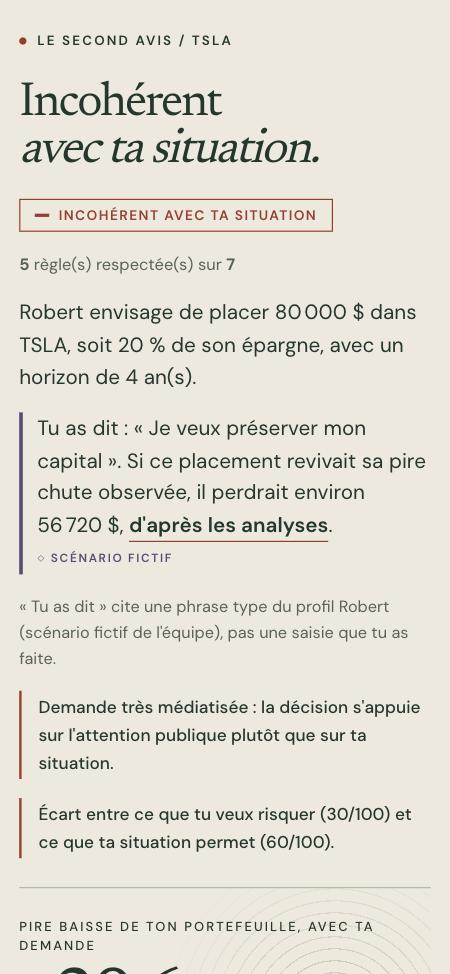
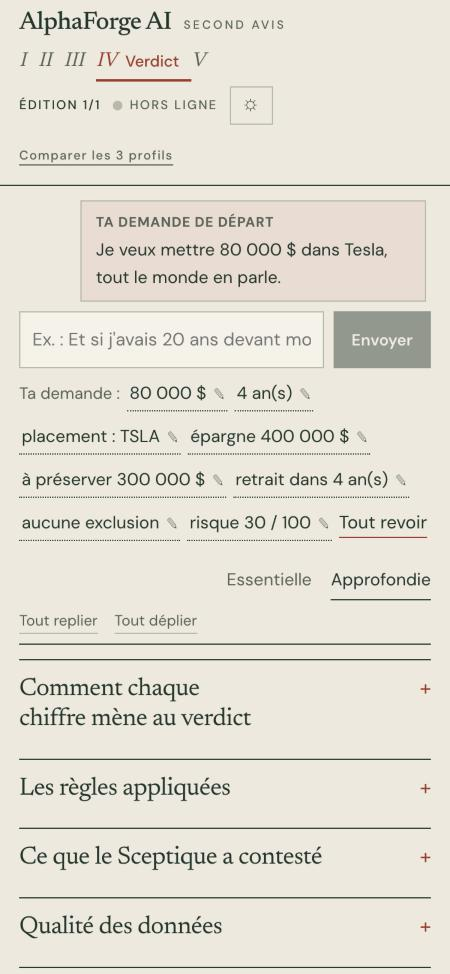
feat(ui-folio): en-tête sobre au nom de l'énoncé, espace resserré et sections repliables
- « AlphaForge AI · Second avis » remplace le mot-symbole ; en-tête sur une ligne
- marges et corps réduits : le verdict et son chiffre tiennent dans le premier écran
- repliable.js : chaque section se réduit à son titre (clic, Entrée, Espace) ; tout replier / tout déplier
- petits écrans : commandes de lecture et champ de message sans débordement

diff --git a/frontend/src/folio.css b/frontend/src/folio.css
@@ -34,48 +34,46 @@
   color-scheme: dark;
 }
 :root { --survol: #3d5445; --cercles: #b3b08f; }
-.choix-theme { background: none; border: 1px solid var(--line); color: var(--ink); padding: 6px 12px; min-height: 36px; cursor: pointer; font: 500 0.72rem/1 var(--sans); letter-spacing: 0.1em; text-transform: uppercase; }
+.choix-theme { background: none; border: 1px solid var(--line); color: var(--ink); padding: 4px 10px; min-height: 32px; min-width: 36px; cursor: pointer; font: 500 0.72rem/1 var(--sans); letter-spacing: 0.1em; text-transform: uppercase; }
 .choix-theme:hover { border-color: var(--ink); }
 body { transition: background-color .2s, color .2s; }
 
 body { background: var(--paper); color: var(--ink); font: 15px/1.6 var(--sans); -webkit-font-smoothing: antialiased; }
 h1, h2, h3 { font-family: var(--serif); font-weight: 400; letter-spacing: -0.02em; }
-h1 { font-size: clamp(2.2rem, 5.2vw, 4.2rem); line-height: 1.02; letter-spacing: -0.04em; }
-h2 { font-size: 1.45rem; margin-bottom: 12px; }
+h1 { font-size: clamp(1.8rem, 3.8vw, 3rem); line-height: 1.05; letter-spacing: -0.035em; }
+h2 { font-size: 1.3rem; margin-bottom: 8px; }
 h3 { font-size: 1.1rem; }
 :focus-visible { outline: 2px solid var(--red); outline-offset: 3px; }
 .surtitre { font: 600 0.7rem/1.4 var(--sans); letter-spacing: 0.16em; color: var(--ink); }
 .surtitre::before { content: ""; display: inline-block; width: 6px; height: 6px; border-radius: 50%; background: var(--red); margin-right: 9px; vertical-align: middle; }
 .lede { font-size: 1.1rem; color: var(--ink); max-width: 56ch; }
 
-/* Manchette */
-.entete { background: var(--paper); border-bottom: 0; position: static; }
-.entete-int { max-width: 1180px; padding: 22px 28px 0; display: grid; grid-template-columns: 1fr auto 1fr; align-items: center; gap: 12px 20px; }
-.manchette-gauche { justify-self: start; display: flex; align-items: center; gap: 14px; flex-wrap: wrap; }
-.manchette-droite { justify-self: end; text-align: right; font: 500 0.7rem/1.9 var(--sans); letter-spacing: 0.16em; text-transform: uppercase; }
-.marque { flex-direction: column; gap: 4px; justify-self: center; font: 500 3.3rem/0.9 var(--serif); letter-spacing: -0.06em; color: var(--ink); }
+/* En-tête sobre : une seule ligne, le nom de l'énoncé, les étapes, les réglages */
+.entete { background: var(--paper); border-bottom: 1px solid var(--ink); position: sticky; top: 0; z-index: 5; }
+.entete-int { max-width: 1180px; padding: 8px 28px; display: flex; align-items: center; gap: 6px 22px; flex-wrap: wrap; }
+.marque { flex-direction: row; align-items: baseline; gap: 10px; font: 500 1.3rem/1.1 var(--serif); letter-spacing: -0.02em; color: var(--ink); }
 .marque-signe { display: none; }
-.marque-sous { border: 0; padding: 0; font: 500 0.66rem/1 var(--sans); letter-spacing: 0.34em; text-transform: uppercase; color: var(--ink); }
-.lien-retour { background: none; border: 0; padding: 6px 0; cursor: pointer; font-size: 0.82rem; color: var(--ink); }
-.lien-retour:hover { color: var(--red); }
-.etat-agents { border: 0; background: none; padding: 0; font: 500 0.7rem/1.9 var(--sans); letter-spacing: 0.12em; text-transform: uppercase; color: var(--muted-f); }
+.marque-sous { border: 0; padding: 0; font: 500 0.62rem/1 var(--sans); letter-spacing: 0.2em; text-transform: uppercase; color: var(--muted-f); }
+.manchette-droite { margin-left: auto; display: flex; align-items: center; gap: 14px; flex-wrap: wrap; font: 500 0.66rem/1.4 var(--sans); letter-spacing: 0.12em; text-transform: uppercase; }
+.etat-dossier { color: var(--ink); }
+.etat-agents { border: 0; background: none; padding: 0; font: inherit; color: var(--muted-f); }
 .etat-agents i { background: var(--line); }
 .etat-agents.actifs i { background: var(--green); }
-
-.barre-etapes { grid-column: 1 / -1; display: flex; align-items: flex-end; justify-content: space-between; gap: 16px; flex-wrap: wrap; border-top: 3px solid var(--ink); border-bottom: 1px solid var(--ink); margin-top: 18px; }
 .etapes { margin: 0; gap: 0; }
-.etapes li { border-radius: 0; padding: 16px 22px 14px 0; margin-right: 6px; font-size: 0.86rem; color: var(--ink); gap: 9px; border-bottom: 3px solid transparent; margin-bottom: -1px; }
-.etape-num { width: auto; height: auto; border: 0; border-radius: 0; background: none !important; color: var(--muted-f) !important; font: italic 400 1.25rem/1 var(--serif); }
+.etapes li { border-radius: 0; padding: 8px 14px 6px 0; font-size: 0.82rem; color: var(--ink); gap: 7px; border-bottom: 2px solid transparent; }
+.etape-num { width: auto; height: auto; border: 0; border-radius: 0; background: none !important; color: var(--muted-f) !important; font: italic 400 1.05rem/1 var(--serif); }
 .etapes li.actuelle { background: none; color: var(--red); font-weight: 500; border-bottom-color: var(--red); }
 .etapes li.actuelle .etape-num { color: var(--red) !important; }
-.etapes li.faite { color: var(--ink); }
-.barre-etapes .bouton.discret { border: 0; background: none; padding: 14px 0; font-size: 0.82rem; text-decoration: underline; text-underline-offset: 4px; }
+.entete .bouton.discret { border: 0; background: none; padding: 6px 0; min-height: 32px; font: inherit; letter-spacing: 0.08em; text-decoration: underline; text-underline-offset: 4px; }
 
-.contenu { max-width: 1180px; padding: 26px 28px 64px; }
-.pied { border-top: 1px solid var(--ink); font-size: 0.74rem; color: var(--muted-f); max-width: 1180px; margin: 0 auto; width: 100%; text-align: left; padding: 16px 28px 32px; }
+.contenu { max-width: 1180px; padding: 16px 28px 48px; }
+section { gap: 12px; }
+.colonnes { gap: 12px 32px; }
+.pied { border-top: 1px solid var(--ink); font-size: 0.72rem; color: var(--muted-f); max-width: 1180px; margin: 0 auto; width: 100%; text-align: left; padding: 10px 28px 20px; }
 
 /* Cartes : des sections réglées par des filets, pas des boîtes */
-.carte { background: transparent; border: 0; border-top: 1px solid var(--ink); border-radius: 0; padding: 22px 0 6px; }
+.carte { background: transparent; border: 0; border-top: 1px solid var(--ink); border-radius: 0; padding: 12px 0 4px; }
+.barre-demande.carte { border-top: 0; padding-top: 0; margin-bottom: 0; gap: 6px; }
 .carte .carte { border-top-color: var(--line); }
 .tiroir, .tiroir-fait, .editeur-puce, .persona, .option, .bulle, .depot { background: var(--paper-light); }
 .persona, .option { border: 1px solid var(--line); padding: 18px; }
@@ -113,32 +111,35 @@ textarea:focus, input:focus, select:focus { border-color: var(--ink) !important;
 .editeur-puce { border: 1px solid var(--ink); border-radius: 0; }
 
 /* Lecture : Essentielle / Approfondie */
-.onglets { justify-content: flex-end; align-items: baseline; gap: 18px; border-bottom: 1px solid var(--ink); margin: 6px 0 4px; }
-.onglets::before { content: "Lecture"; margin-right: auto; font: 500 0.7rem/1 var(--sans); letter-spacing: 0.18em; text-transform: uppercase; color: var(--muted-f); }
-.onglet { padding: 12px 0; font: 400 0.9rem/1 var(--sans); color: var(--muted-f); border-bottom: 1px solid transparent; margin-bottom: -1px; }
+.onglets { justify-content: flex-end; align-items: baseline; gap: 18px; border-bottom: 1px solid var(--ink); margin: 0; }
+.replier-tout { order: -1; margin-right: auto; display: flex; gap: 14px; font-size: 0.78rem; }
+.replier-tout .lien { background: none; border: 0; border-bottom: 1px solid var(--line); padding: 0; cursor: pointer; color: var(--muted-f); }
+.replier-tout .lien:hover { color: var(--ink); border-bottom-color: var(--red); }
+.onglets::before { content: "Lecture"; order: -2; margin-right: 6px; font: 500 0.7rem/1 var(--sans); letter-spacing: 0.18em; text-transform: uppercase; color: var(--muted-f); }
+.onglet { padding: 9px 0; font: 400 0.9rem/1 var(--sans); color: var(--muted-f); border-bottom: 1px solid transparent; margin-bottom: -1px; }
 .onglet.actif { color: var(--ink); border-bottom-color: var(--ink); }
 
 /* Double page du verdict */
-.verdict-tete.carte { border-top: 0; padding: 26px 0 34px; border-bottom: 1px solid var(--ink); display: grid; grid-template-columns: minmax(0, 1.35fr) minmax(0, 1fr); gap: 0 40px; justify-items: stretch; align-items: start; }
-.heros-texte { display: grid; gap: 16px; justify-items: start; min-width: 0; }
-.heros-titre { font: 400 clamp(2.5rem, 6.4vw, 5.1rem)/0.98 var(--serif); letter-spacing: -0.045em; color: var(--ink); margin: 4px 0 4px; text-wrap: balance; }
+.verdict-tete.carte { border-top: 0; padding: 12px 0 18px; border-bottom: 1px solid var(--ink); display: grid; grid-template-columns: minmax(0, 1.35fr) minmax(0, 1fr); gap: 0 40px; justify-items: stretch; align-items: start; }
+.heros-texte { display: grid; gap: 10px; justify-items: start; min-width: 0; }
+.heros-titre { font: 400 clamp(2.1rem, 4.6vw, 3.7rem)/1 var(--serif); letter-spacing: -0.04em; color: var(--ink); margin: 0; text-wrap: balance; }
 .heros-titre em { font-style: italic; display: block; }
-.heros-texte .reformulation { font-size: 1.08rem; line-height: 1.55; max-width: 54ch; }
+.heros-texte .reformulation { font-size: 1rem; line-height: 1.5; max-width: 54ch; }
 .heros-texte .tension { border-left: 2px solid var(--red); background: none; padding: 2px 0 2px 14px; color: var(--ink); border-radius: 0; }
-.heros-resultat { position: relative; border-left: 1px solid var(--line); padding: 30px 0 0 40px; display: grid; gap: 6px; justify-items: start; align-content: start; min-height: 100%; overflow: hidden; }
-.heros-cercles { position: absolute; width: 300px; height: 300px; right: -70px; top: -40px; border-radius: 50%; pointer-events: none; opacity: 0.5;
+.heros-resultat { position: relative; border-left: 1px solid var(--line); padding: 4px 0 0 32px; display: grid; gap: 4px; justify-items: start; align-content: start; min-height: 100%; overflow: hidden; }
+.heros-cercles { position: absolute; width: 240px; height: 240px; right: -60px; top: -50px; border-radius: 50%; pointer-events: none; opacity: 0.5;
   background: repeating-radial-gradient(circle, transparent 0 9px, var(--cercles) 9px 10px); -webkit-mask-image: radial-gradient(circle, #000 20%, transparent 70%); mask-image: radial-gradient(circle, #000 20%, transparent 70%); }
 .heros-libelle { position: relative; font: 500 0.68rem/1.5 var(--sans); letter-spacing: 0.16em; text-transform: uppercase; }
-.heros-nombre { position: relative; font: 400 clamp(4rem, 9vw, 8rem)/1 var(--serif); letter-spacing: -0.07em; background: none; border: 0; padding: 0; color: var(--ink); cursor: pointer; text-align: left; white-space: nowrap; }
+.heros-nombre { position: relative; font: 400 clamp(3.2rem, 6.4vw, 5.6rem)/1 var(--serif); letter-spacing: -0.07em; background: none; border: 0; padding: 0; color: var(--ink); cursor: pointer; text-align: left; white-space: nowrap; }
 .heros-nombre:hover { color: var(--red); }
 .heros-unite { position: relative; display: flex; justify-content: space-between; align-items: baseline; width: min(100%, 320px); font: 500 0.72rem/1 var(--sans); letter-spacing: 0.14em; text-transform: uppercase; }
 .heros-unite span:last-child { font-size: 1.4rem; letter-spacing: 0; }
-.heros-note { position: relative; font-size: 0.78rem; line-height: 1.7; margin-top: 18px; max-width: 340px; }
+.heros-note { position: relative; font-size: 0.78rem; line-height: 1.6; margin-top: 8px; max-width: 340px; }
 .heros-note strong { font-weight: 500; }
 .compte-regles { font-size: 0.86rem; }
 
 /* Bandeau d'archive et éditions */
-.bandeau-archive { display: flex; align-items: center; gap: 20px; flex-wrap: wrap; border-bottom: 1px solid var(--line); padding: 14px 0 16px; }
+.bandeau-archive { display: flex; align-items: center; gap: 16px; flex-wrap: wrap; border-bottom: 1px solid var(--line); padding: 6px 0 8px; }
 .bandeau-archive::before { content: "↰"; font: 400 2rem/1 var(--serif); color: var(--red); }
 .bandeau-archive p { flex: 1; min-width: 220px; font-size: 0.86rem; }
 .bandeau-archive strong { display: block; font-weight: 600; }
@@ -153,11 +154,11 @@ textarea:focus, input:focus, select:focus { border-color: var(--ink) !important;
 .editions .bouton { padding: 7px 12px; min-height: 36px; font-size: 0.78rem; }
 
 /* Ce que la modification change : marques de correction */
-.ce-qui-change { border-top: 1px solid var(--ink); border-bottom: 1px solid var(--ink); padding: 18px 0 20px; display: grid; gap: 10px; }
+.ce-qui-change { border-top: 1px solid var(--ink); border-bottom: 1px solid var(--ink); padding: 10px 0 12px; display: grid; gap: 6px; }
 .ce-qui-change h2 { font-size: 1.25rem; margin: 0; }
 .ce-qui-change h2 em { color: var(--red); font-style: italic; }
 .ce-qui-change dl { margin: 0; display: grid; grid-template-columns: minmax(140px, 15rem) minmax(0, 1fr); gap: 0; font-size: 0.92rem; }
-.ce-qui-change dt, .ce-qui-change dd { margin: 0; padding: 8px 0; border-top: 1px solid var(--line); }
+.ce-qui-change dt, .ce-qui-change dd { margin: 0; padding: 5px 0; border-top: 1px solid var(--line); }
 .ce-qui-change dt { font-style: italic; font-family: var(--serif); font-size: 1rem; }
 .ce-qui-change del { color: var(--muted-f); text-decoration-color: var(--red); text-decoration-thickness: 1.5px; margin-right: 10px; }
 .ce-qui-change ins { color: var(--red); text-decoration: underline; text-underline-offset: 4px; }
@@ -167,14 +168,23 @@ textarea:focus, input:focus, select:focus { border-color: var(--ink) !important;
 .etape4.en-relance > :not(.barre-demande) { opacity: 0.45; }
 .etape4.en-relance::before { content: "Épreuve périmée : nouvelle analyse en cours…"; display: block; border: 1px dashed var(--red); color: var(--red); padding: 10px 14px; font: 500 0.74rem/1.4 var(--sans); letter-spacing: 0.12em; text-transform: uppercase; }
 
+/* Sections repliables : le titre reste, le contenu se masque */
+h2[data-repliable] { cursor: pointer; display: flex; justify-content: space-between; align-items: baseline; gap: 14px; }
+h2[data-repliable]::after { content: "−"; font: 400 1.1rem/1 var(--sans); color: var(--red); flex: none; }
+h2[data-repliable]:hover { color: var(--red); }
+.replie > h2[data-repliable]::after { content: "+"; }
+.replie > h2[data-repliable] { margin-bottom: 0; }
+.replie > :not(h2) { display: none !important; }
+.replie { padding-bottom: 8px; }
+
 /* Détails de composants existants */
-.regle { border-radius: 0; border-left: 0 !important; border-top: 1px solid var(--line); padding: 14px 0; background: none; }
+.regle { border-radius: 0; border-left: 0 !important; border-top: 1px solid var(--line); padding: 9px 0; background: none; }
 .regle-tete strong { font: 500 1.08rem/1.3 var(--serif); }
 .regle.n-rouge .regle-tete strong::before { content: "✕ "; color: var(--red); }
 .regle.n-orange .regle-tete strong::before { content: "△ "; }
 .regle.n-ok .regle-tete strong::before { content: "✓ "; }
-.phrase { border-radius: 0; background: none; border-top: 1px solid var(--line); padding: 12px 0; }
-.titre-options, .bloc-options h2 { font: 400 1.9rem/1.1 var(--serif); letter-spacing: -0.03em; border-top: 1px solid var(--ink); padding-top: 22px; }
+.phrase { border-radius: 0; background: none; border-top: 1px solid var(--line); padding: 8px 0; }
+.titre-options, .bloc-options h2 { font: 400 1.5rem/1.15 var(--serif); letter-spacing: -0.025em; border-top: 1px solid var(--ink); padding-top: 12px; }
 .registre th { font: 600 0.66rem/1.4 var(--sans); letter-spacing: 0.14em; text-transform: uppercase; color: var(--muted-f); }
 .registre td, .registre th, .table-comparaison td, .table-comparaison th { border-bottom: 1px solid var(--line); }
 .nombre { font-variant-numeric: tabular-nums; }
@@ -195,18 +205,30 @@ textarea:focus, input:focus, select:focus { border-color: var(--ink) !important;
 .noeud-raisonnement { border-radius: 0; }
 
 @media (max-width: 820px) {
-  .entete-int { grid-template-columns: 1fr; justify-items: center; padding: 16px 16px 0; }
-  .manchette-gauche, .manchette-droite { justify-self: center; text-align: center; }
-  .marque { font-size: 2.6rem; }
-  .barre-etapes { justify-content: center; }
-  .etapes li { padding: 12px 10px 10px 0; }
-  .contenu { padding: 18px 16px 48px; }
-  .pied { padding: 14px 16px 28px; }
+  .entete { position: static; }
+  .entete-int { padding: 8px 16px; gap: 4px 14px; }
+  .manchette-droite { margin-left: 0; gap: 10px; }
+  .contenu { padding: 12px 16px 40px; }
+  .pied { padding: 10px 16px 20px; }
   .verdict-tete.carte { grid-template-columns: 1fr; }
-  .heros-resultat { border-left: 0; border-top: 1px solid var(--line); padding: 24px 0 0; margin-top: 24px; }
+  .heros-resultat { border-left: 0; border-top: 1px solid var(--line); padding: 12px 0 0; margin-top: 12px; }
   .ce-qui-change dl { grid-template-columns: 1fr; }
   .ce-qui-change dt { padding-bottom: 0; } .ce-qui-change dd { border-top: 0; padding-top: 2px; }
   .editions li { grid-template-columns: 2rem minmax(0, 1fr); }
 }
 @media (prefers-reduced-motion: reduce) { * { transition: none !important; animation: none !important; scroll-behavior: auto !important; } }
 @media print { .entete .barre-etapes, .barre-demande, .actions, .editions, .bouton { display: none !important; } body { background: #fff; } }
+
+/* Petits écrans : rien ne dépasse, les commandes de lecture passent à la ligne */
+.replier-tout .lien { white-space: nowrap; }
+.saisie-message { min-width: 0; }
+.saisie-message input, .saisie-message textarea { min-width: 0; }
+@media (max-width: 820px) {
+  .onglets { flex-wrap: wrap; gap: 4px 16px; }
+  .onglets::before { display: none; }
+  .replier-tout { flex: 1 0 100%; order: 3; padding: 4px 0 8px; }
+  .saisie-message { grid-template-columns: minmax(0, 1fr) auto; }
+  .saisie-message .bouton { padding: 12px 14px; }
+  .saisie-message .bouton.principal::after { display: none; }
+  .etapes li { padding: 6px 10px 4px 0; }
+}

diff --git a/frontend/src/App.jsx b/frontend/src/App.jsx
@@ -9,6 +9,7 @@ import Etape5Bascule from './etapes/Etape5Bascule.jsx'
 import Comparer from './etapes/Comparer.jsx'
 import TiroirFait from './composants/TiroirFait.jsx'
 import { RegistreContext } from './composants/Sources.jsx'
+import { installerRepliables } from './repliable.js'
 
 export const NOM_PRODUIT = 'AlphaForge AI'
 export const SOUS_TITRE = 'Second avis'
@@ -55,6 +56,7 @@ export default function App() {
   }, [theme])
 
   const [sante, setSante] = useState(null)
+  useEffect(() => installerRepliables(document.querySelector('.contenu')), [])
   const [registre, setRegistre] = useState(null)
 
   useEffect(() => {
@@ -176,40 +178,36 @@ export default function App() {
     <div className="app">
       <header className="entete">
         <div className="entete-int">
-          <div className="manchette-gauche">
-            <button type="button" className="lien-retour" onClick={() => { setVue('parcours'); recommencer() }}>← Nouvelle demande</button>
-            <button type="button" className="choix-theme" role="switch" aria-checked={theme === 'sombre'}
-              onClick={() => setTheme(theme === 'sombre' ? 'clair' : 'sombre')} title="Changer de thème">
-              <span aria-hidden="true">{theme === 'sombre' ? '☾' : '☼'}</span> Thème {theme === 'sombre' ? 'sombre' : 'clair'}
-            </button>
-          </div>
-          <button type="button" className="marque" onClick={() => { setVue('parcours'); recommencer() }} aria-label={`Folio, ${NOM_PRODUIT} ${SOUS_TITRE} : revenir au début`}>
-            folio
-            <span className="marque-sous">AlphaForge · {SOUS_TITRE}</span>
+          <button type="button" className="marque" onClick={() => { setVue('parcours'); recommencer() }} title="Nouvelle demande">
+            {NOM_PRODUIT}
+            <span className="marque-sous">{SOUS_TITRE}</span>
           </button>
+          {vue === 'parcours' && (
+            <ol className="etapes" aria-label="Étapes du parcours">
+              {ETAPES.map((nom, i) => (
+                <li key={nom} className={i === etape ? 'actuelle' : i < etape ? 'faite' : ''} aria-current={i === etape ? 'step' : undefined}>
+                  <span className="etape-num" aria-hidden="true">{ROMAINS[i]}</span>
+                  <span className="etape-nom">{nom}</span>
+                </li>
+              ))}
+            </ol>
+          )}
           <div className="manchette-droite">
-            <div>Le dossier de décision</div>
-            <div>{editions.length === 0 ? 'Simulation éducative'
-              : `${lue !== null ? 'Archive' : 'Édition'} ${indexEdition + 1} sur ${editions.length} · ${relance ? 'analyse en cours' : 'analyse terminée'}`}</div>
+            {editions.length > 0 && (
+              <span className="etat-dossier">{lue !== null ? 'Archive' : 'Édition'} {indexEdition + 1}/{editions.length}{relance ? ' · analyse en cours' : ''}</span>
+            )}
             {sante && (
               <span className={`etat-agents ${sante.llm ? 'actifs' : ''}`}
                 title={sante.llm ? `${sante.modeles.principal} et ${sante.modeles.leger}` : sante.raison || ''}>
                 <i aria-hidden="true" />
-                {sante.llm ? 'Agents IA : Bedrock' : 'Agents : mode hors ligne'}
+                {sante.llm ? 'Bedrock' : 'Hors ligne'}
               </span>
             )}
-          </div>
-          <div className="barre-etapes">
-            {vue === 'parcours' ? (
-              <ol className="etapes" aria-label="Étapes du parcours">
-                {ETAPES.map((nom, i) => (
-                  <li key={nom} className={i === etape ? 'actuelle' : i < etape ? 'faite' : ''} aria-current={i === etape ? 'step' : undefined}>
-                    <span className="etape-num" aria-hidden="true">{ROMAINS[i]}</span>
-                    <span className="etape-nom">{nom}</span>
-                  </li>
-                ))}
-              </ol>
-            ) : <span />}
+            <button type="button" className="choix-theme" role="switch" aria-checked={theme === 'sombre'}
+              onClick={() => setTheme(theme === 'sombre' ? 'clair' : 'sombre')} title="Changer de thème"
+              aria-label={`Thème ${theme === 'sombre' ? 'sombre' : 'clair'} : changer`}>
+              <span aria-hidden="true">{theme === 'sombre' ? '☾' : '☼'}</span>
+            </button>
             <button type="button" className="bouton discret" onClick={() => setVue(vue === 'parcours' ? 'comparer' : 'parcours')}>
               {vue === 'parcours' ? 'Comparer les 3 profils' : 'Retour au parcours'}
             </button>

diff --git a/frontend/src/repliable.js b/frontend/src/repliable.js
@@ -1,0 +1,45 @@
+// Sections repliables : un clic (ou Entrée / Espace) sur le titre d'une section la réduit à ce titre.
+// Sert à lire une page longue sans défiler. Rien n'est retiré du dossier : le contenu est seulement masqué.
+// L'état est tenu par titre, pour survivre aux nouveaux rendus de la page.
+const SELECTEUR = '.carte > h2, .bloc-options > h2, .ce-qui-change > h2'
+// Repliées au départ : les deux sections les plus longues de la lecture approfondie.
+const REPLIEES_AU_DEPART = new Set(['Sources de cette analyse', 'Qualité des données'])
+const choix = new Map()      // titre → replié ou non, quand la personne a choisi
+let toutEstReplie = false    // « Tout replier » vaut aussi pour les sections qui apparaîtront ensuite
+const cle = (h) => h.textContent.trim()
+const estReplie = (k) => (choix.has(k) ? choix.get(k) : toutEstReplie || REPLIEES_AU_DEPART.has(k))
+
+function decorer(racine = document) {
+  racine.querySelectorAll(SELECTEUR).forEach((h) => {
+    if (!h.dataset.repliable) {
+      h.dataset.repliable = '1'; h.tabIndex = 0; h.setAttribute('role', 'button')
+      h.title = 'Replier ou déplier cette section'
+    }
+    const replie = estReplie(cle(h))
+    h.parentElement.classList.toggle('replie', replie)
+    h.setAttribute('aria-expanded', String(!replie))
+  })
+}
+
+export function toutReplier(valeur) {
+  toutEstReplie = valeur
+  choix.clear()
+  if (!valeur) REPLIEES_AU_DEPART.forEach((k) => choix.set(k, false))
+  decorer()
+}
+
+export function installerRepliables(racine) {
+  const basculer = (h) => { const k = cle(h); choix.set(k, !estReplie(k)); decorer(racine) }
+  const auClic = (e) => { const h = e.target.closest?.('h2[data-repliable]'); if (h && racine.contains(h)) basculer(h) }
+  const auClavier = (e) => {
+    if (e.key !== 'Enter' && e.key !== ' ') return
+    const h = e.target.matches?.('h2[data-repliable]') ? e.target : null
+    if (h) { e.preventDefault(); basculer(h) }
+  }
+  racine.addEventListener('click', auClic)
+  racine.addEventListener('keydown', auClavier)
+  const veille = new MutationObserver(() => decorer(racine))
+  veille.observe(racine, { childList: true, subtree: true })
+  decorer(racine)
+  return () => { veille.disconnect(); racine.removeEventListener('click', auClic); racine.removeEventListener('keydown', auClavier) }
+}

diff --git a/frontend/src/etapes/Etape4Verdict.jsx b/frontend/src/etapes/Etape4Verdict.jsx
@@ -7,6 +7,7 @@ import { Etiquette, PuceIssue, PuceNiveau, PuceVerdict, PucesFaits } from '../co
 import GraphiqueChute from '../composants/GraphiqueChute.jsx'
 import ComparaisonPortefeuille from '../composants/ComparaisonPortefeuille.jsx'
 import Editions, { CeQuiChange } from '../composants/Editions.jsx'
+import { toutReplier } from '../repliable.js'
 import { ListeSources, SourcesCompactes, SourcesParType, sourcesDuDossier } from '../composants/Sources.jsx'
 
 function Phrase({ p, ouvrir }) {
@@ -185,6 +186,10 @@ export default function Etape4Verdict({ dossier, ouvrirFait, onBascule, onModifi
           <button key={cle} type="button" role="tab" aria-selected={onglet === cle}
             className={`onglet ${onglet === cle ? 'actif' : ''}`} onClick={() => setOnglet(cle)}>{nom}</button>
         ))}
+        <span className="replier-tout">
+          <button type="button" className="lien" onClick={() => toutReplier(true)}>Tout replier</button>
+          <button type="button" className="lien" onClick={() => toutReplier(false)}>Tout déplier</button>
+        </span>
       </div>
 
       {onglet === 'essentiel' && (<>

diff --git a/frontend/index.html b/frontend/index.html
@@ -3,7 +3,7 @@
   <head>
     <meta charset="UTF-8" />
     <meta name="viewport" content="width=device-width, initial-scale=1.0" />
-    <title>Folio · AlphaForge — Second avis</title>
+    <title>AlphaForge AI · Second avis</title>
   </head>
   <body>
     <div id="root"></div>

diff --git a/docs/ui-folio/LISEZMOI.md b/docs/ui-folio/LISEZMOI.md
@@ -8,7 +8,7 @@ Source du style : `FOLIO_UI_KIT` (Folio 0.7.0), voie « transférer le langage v
 
 - `frontend/public/fonts/` : DM Sans et Newsreader (six fichiers, licences SIL OFL jointes). Plus aucune police chargée depuis un service externe.
 - `frontend/src/folio.css` : palette (papier, encre verte, rouge d'annotation), typographie, filets, manchette, onglets, double page du résultat. Chargée après `styles.css` : elle rhabille les classes existantes, elle n'en retire aucune.
-- Manchette : mot-symbole, état du dossier (édition, archive, analyse en cours), étapes en chiffres romains.
+- En-tête sobre sur une ligne : « AlphaForge AI · Second avis » (le nom de l'énoncé), étapes en chiffres romains, état du dossier, thème.
 - Verdict en double page : l'avis en grand titre à gauche ; à droite le chiffre qui le porte, la pire baisse du portefeuille avec la demande, face à celle d'avant, avec son écart et son sens rendus par le moteur. Le chiffre ouvre sa preuve.
 - Lecture « Essentielle » et « Approfondie » : les deux onglets existants, présentés comme dans Folio.
 
@@ -18,6 +18,9 @@ Source du style : `FOLIO_UI_KIT` (Folio 0.7.0), voie « transférer le langage v
 - **Ce que la modification change** : entre deux éditions successives, l'avis, les niveaux de règles (appariés par code) et les mesures du portefeuille qui diffèrent, en marques de correction.
 - **Épreuve périmée** : pendant une relance, l'ancien résultat reste lisible mais marqué comme périmé.
 - États : chaque état garde un libellé et un signe distinct ; la couleur ne porte jamais seule l'information.
+- **Sections repliables** (`repliable.js`) : un clic, ou Entrée, sur le titre d'une section la réduit à ce titre ; « Tout replier » et « Tout déplier » à côté du niveau de lecture. Les deux sections les plus longues de la lecture approfondie (sources, qualité des données) sont repliées au départ. Mesuré à 1280 px : la lecture approfondie passe de 8 270 px de haut à 800 px, tout replié.
+- **Thème clair ou sombre**, gardé d'une visite à l'autre ; sans choix, le réglage du système s'applique.
+- Espacements resserrés : le verdict et son chiffre tiennent dans le premier écran.
 
 ## Corrections faites en passant
 
@@ -33,9 +36,8 @@ Non vérifié : étape « Curseurs », vue « Comparer les 3 profils », plan ou
 ## Limites
 
 - Les éditions vivent dans la mémoire de la page : elles disparaissent au rechargement.
-- Le thème sombre n'existe plus : Folio est un papier clair.
 - Le tableau de comparaison de la lecture approfondie affiche encore les mesures avec six décimales.
-- Le mot-symbole affiché est « folio », sous-titré « AlphaForge · Second avis » ; les constantes du produit ne changent pas.
+- L'état replié des sections vit dans la page : il revient à son réglage de départ au rechargement.
 
 ## Lancer
 
